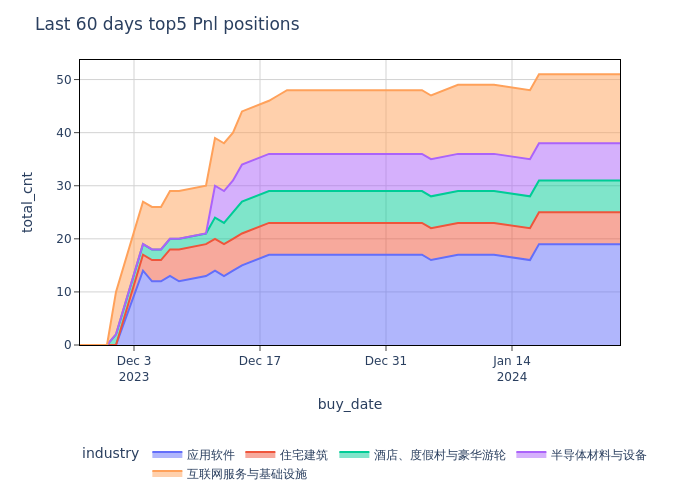
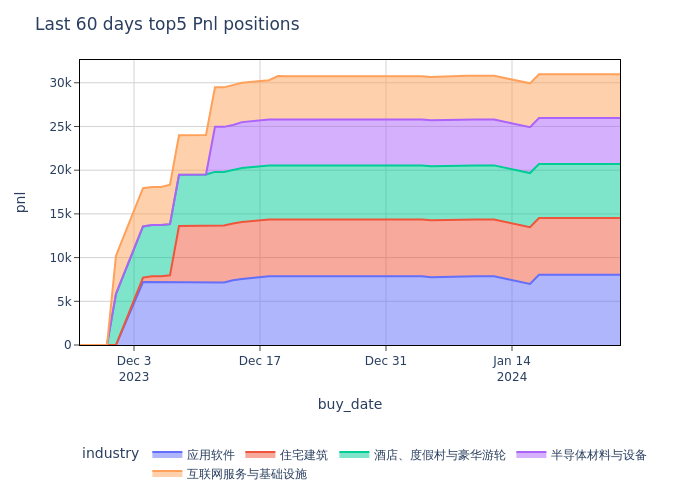
update

diff --git a/finance/utility/StockProposal.py b/finance/utility/StockProposal.py
@@ -596,14 +596,14 @@ class StockProposal:
                     select industry, pl from ( 
                         select industry, sum(`p&l`) as pl from temp group by industry) 
                         order by pl desc limit 5 
-                ), tmp1 as ( select buy_date, industry, total_cnt
+                ), tmp1 as ( select buy_date, industry, pnl
                 from (
                     select buy_date, industry,
-                            sum(COUNT(*)) OVER (partition by industry ORDER BY buy_date ROWS BETWEEN UNBOUNDED PRECEDING AND CURRENT ROW) AS total_cnt
+                            sum(sum(`p&l`)) OVER (partition by industry ORDER BY buy_date ROWS BETWEEN UNBOUNDED PRECEDING AND CURRENT ROW) AS pnl
                     from temp
                     group by buy_date, industry order by buy_date ) t
                     where buy_date >= date_add(current_date(), -60) 
-                ), tmp2 as (select tmp.industry, tmp1.buy_date, tmp1.total_cnt 
+                ), tmp2 as (select tmp.industry, tmp1.buy_date, tmp1.pnl 
                             from tmp left join tmp1 
                             on tmp.industry = tmp1.industry
                 ), tmp3 as (select temp_timeseries.buy_date, tmp.industry, tmp.pl
@@ -627,32 +627,24 @@ class StockProposal:
                                 ) t
                             )
                 ,tmp5 as (
-                        select t1.symbol, t1.date, t1.l_date, t2.industry
+                        select t1.symbol, t1.date, t1.l_date, t2.industry,
+                        t1.price * (-t1.size) - t1.l_price * t1.l_size as l60_pnl
                         from tmp4 t1 join temp2 t2
                         on t1.symbol = t2.symbol
                         where t1.trade_type = 'sell'
                         and t1.date >= date_add(current_date(), -60) and t1.l_date >= date_add(current_date(), -60)
                         )
                 ,tmp6 as (
-                        select date, industry, sum(cnt) as cnt
-                        from (
-                            select l_date as date,
-                                    industry,
-                                    count(symbol) as cnt
-                            from tmp5
-                            group by l_date, industry
-                            union all
-                            select date,
-                                    industry,
-                                    (-1) * count(symbol) as cnt
-                            from tmp5
-                            group by date, industry
-                        ) t group by date, industry                        
+                        select  date,
+                                industry,
+                                sum(l60_pnl) as l60_pnl
+                        from tmp5
+                        group by date, industry                      
                 )  
                 select tmp3.buy_date, tmp3.industry, 
-                        (case when tmp2.total_cnt > 0 then tmp2.total_cnt
-                            else last_value(tmp2.total_cnt) ignore nulls over (partition by tmp3.industry order by tmp3.buy_date)
-                        end)  + COALESCE(tmp6.cnt,0) as total_cnt
+                        (case when tmp2.pnl > 0 then tmp2.pnl
+                            else last_value(tmp2.pnl) ignore nulls over (partition by tmp3.industry order by tmp3.buy_date)
+                        end)  + COALESCE(tmp6.l60_pnl,0) as pnl
                     from tmp3 left join tmp2
                     on tmp3.buy_date = tmp2.buy_date
                     and tmp3.industry = tmp2.industry
@@ -666,7 +658,7 @@ class StockProposal:
             fig = px.area(
                 dfdata6,
                 x="buy_date",
-                y="total_cnt",
+                y="pnl",
                 color="industry",
                 line_group="industry",
             )
@@ -685,7 +677,7 @@ class StockProposal:
                 gridcolor="lightgrey",
             )
             fig.update_layout(
-                title="Last 60 days top5 Pnl positions",
+                title="Last 60 days top5 Pnl",
                 legend=dict(
                     orientation="h", yanchor="bottom", y=-0.5, xanchor="left", x=0
                 ),
